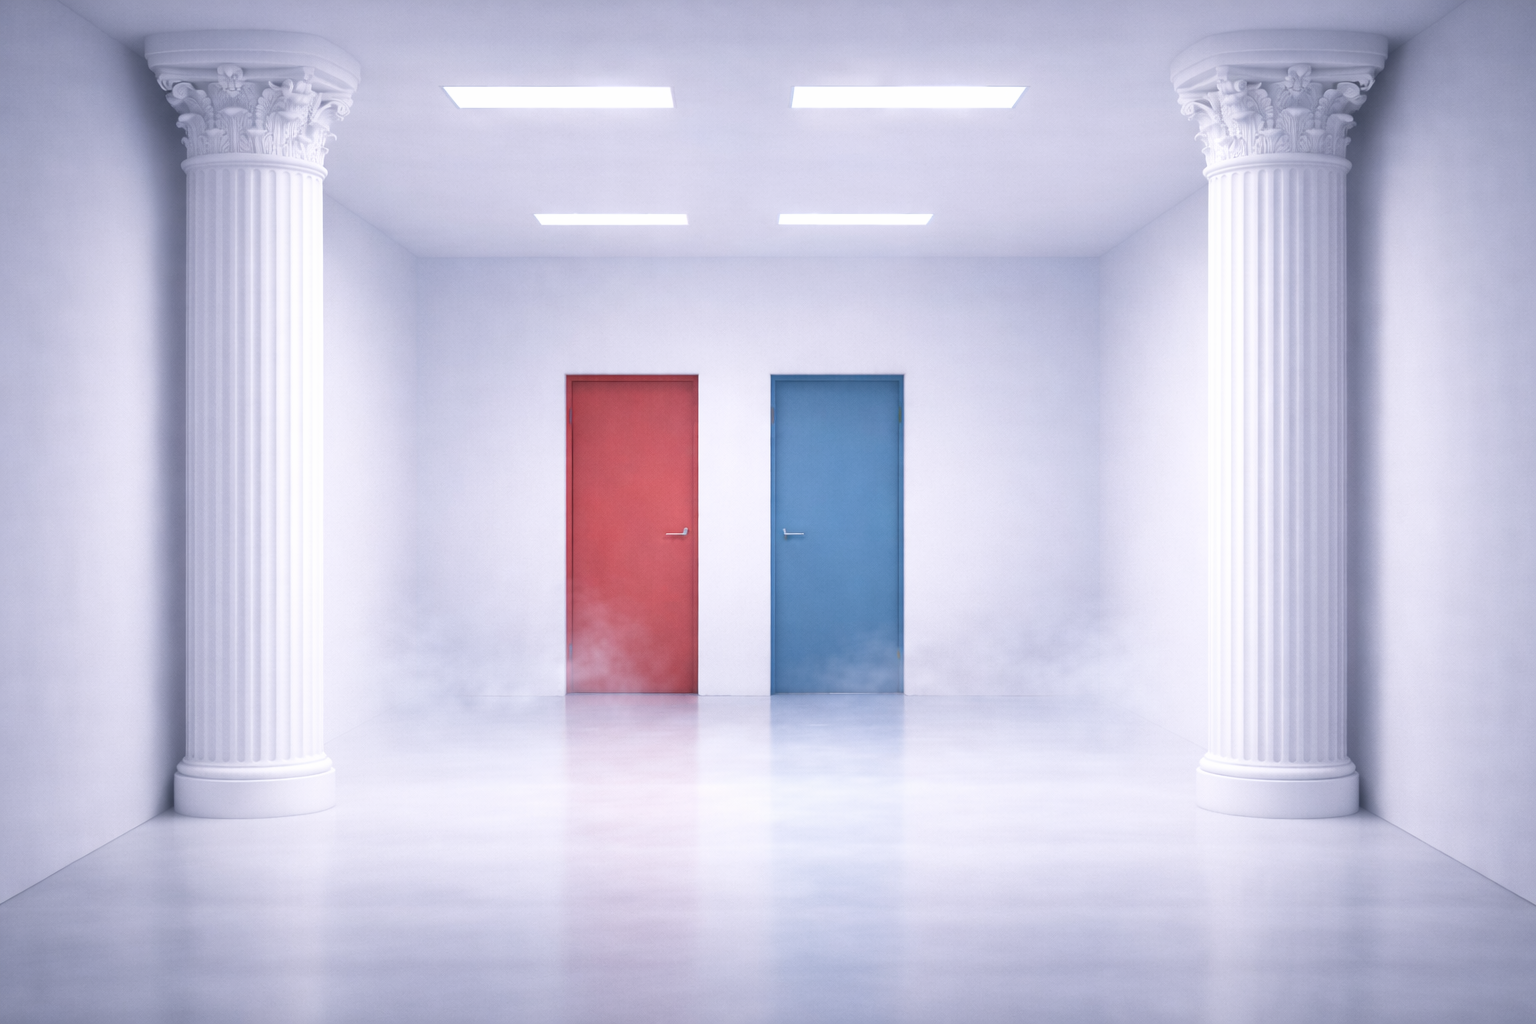
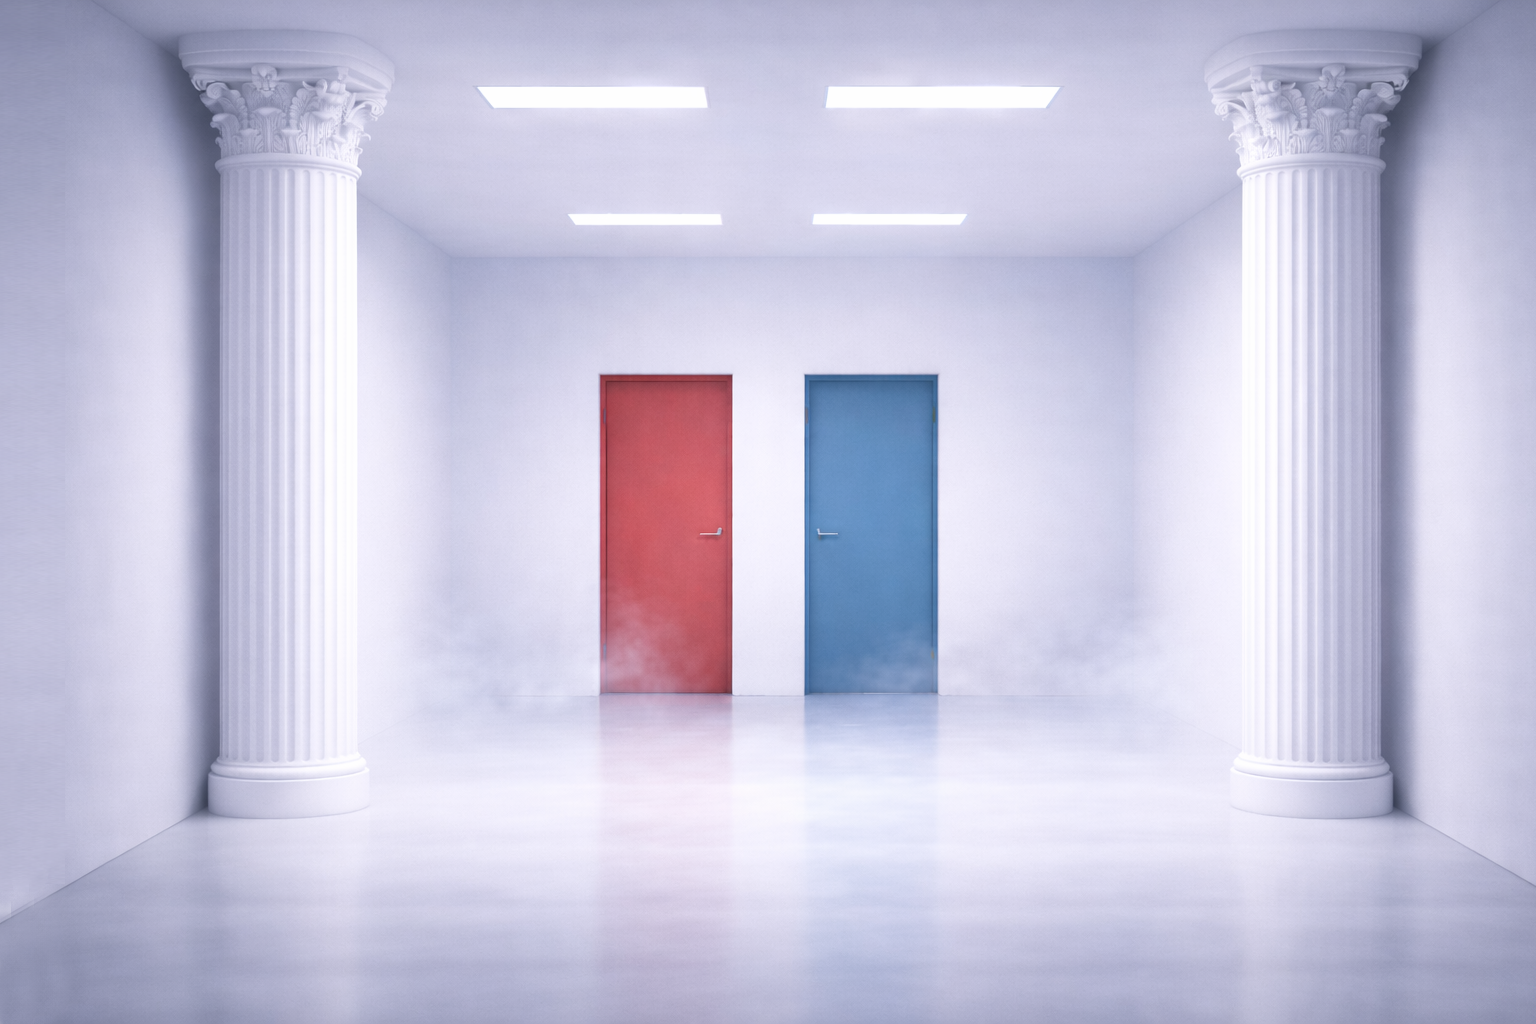
feat: updat main background image

diff --git a/src/app/hooks/useImageMapDoors.ts b/src/app/hooks/useImageMapDoors.ts
@@ -298,6 +298,6 @@ export function useImageMapDoors({
  * 座標格式: { x1: 左, y1: 上, x2: 右, y2: 下 }
  */
 export const DEFAULT_DOOR_COORDS: DoorCoordsConfig = {
-  red: { x1: 568, y1: 376, x2: 697, y2: 697 },   // 紅門區域
-  blue: { x1: 772, y1: 376, x2: 902, y2: 693 },  // 藍門區域
+  red: { x1: 600, y1: 375, x2: 733, y2: 692 },   // 紅門區域
+  blue: { x1: 805, y1: 376, x2: 937, y2: 695 },  // 藍門區域
 };
